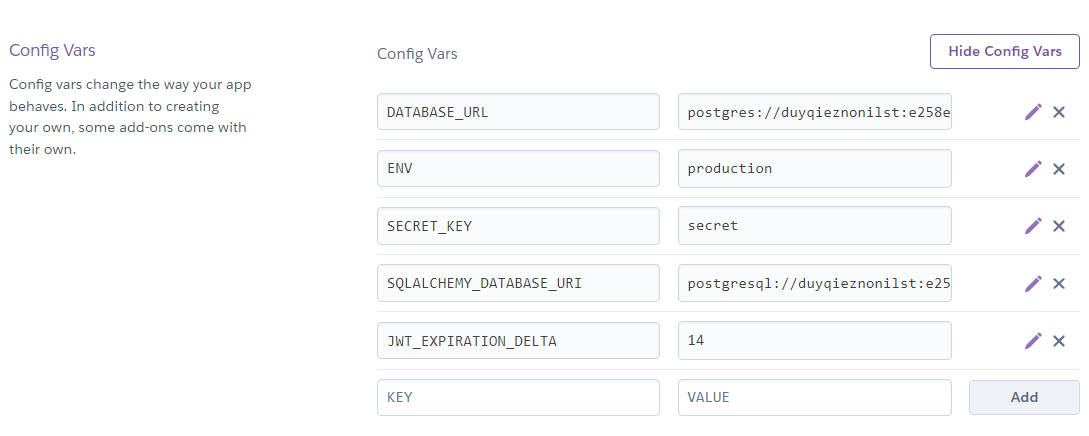
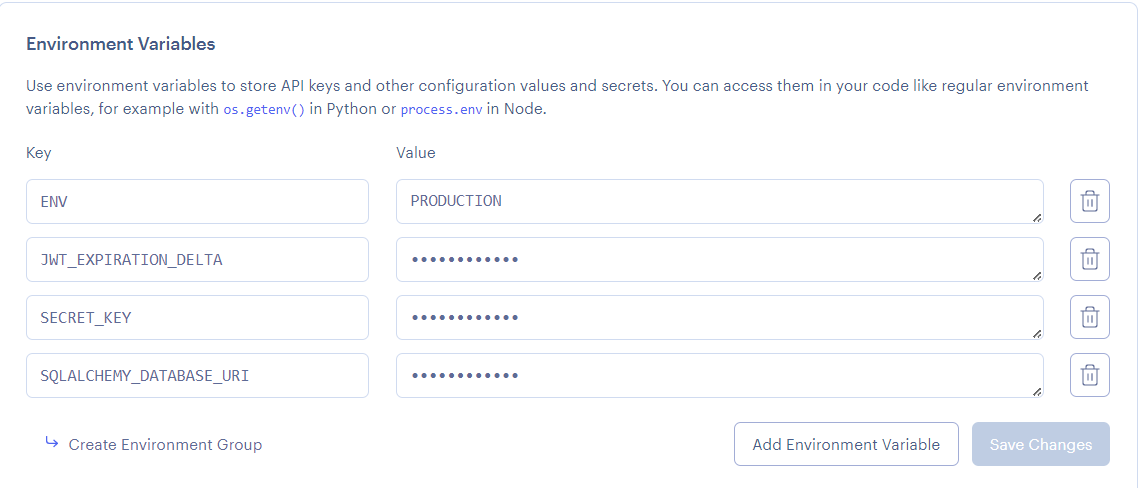
updating for render deployment

diff --git a/App/views/index.py b/App/views/index.py
@@ -1,7 +1,11 @@
-from flask import Blueprint, redirect, render_template, request, send_from_directory
+from flask import Blueprint, redirect, render_template, request, send_from_directory, jsonify
 
 index_views = Blueprint('index_views', __name__, template_folder='../templates')
 
 @index_views.route('/', methods=['GET'])
 def index_page():
     return render_template('index.html')
+
+@index_views.route('/', methods=['GET'])
+def health_check():
+    return jsonify({'status':'healthy'})

diff --git a/readme.md b/readme.md
@@ -1,5 +1,7 @@
 [![Open in Gitpod](https://gitpod.io/button/open-in-gitpod.svg)](https://gitpod.io/#https://github.com/uwidcit/flaskmvc)
-[![Deploy](https://www.herokucdn.com/deploy/button.svg)](https://heroku.com/deploy)
+<a href="https://render.com/deploy?repo=https://github.com/uwidcit/flaskmvc">
+  <img src="https://render.com/images/deploy-to-render-button.svg" alt="Deploy to Render">
+</a>
 
 ![Tests](https://github.com/uwidcit/flaskmvc/actions/workflows/dev.yml/badge.svg)
 
@@ -37,14 +39,9 @@ ENV = "DEVELOPMENT"
 ## In Production
 
 When deploying your application to production/staging you must pass
-in configuration information via environment variables. For heroku, you need to navigate to your application's setting page (url should look like https://dashboard.heroku.com/apps/[app-name]/settings) and scroll down to config vars.
-Then provide your configuration by defining the same values given in config.py 
+in configuration information via environment tab of your render project's dashboard.
 
-![heroku screenshot](images/fig1.png)
-
-When deploying to production the "ENV" variable should be set to "PRODUCTION". 
-
-**Note** heroku provides a default variable "DATABASE_URL" for heorku postgres. If you want the app to use this database you must copy the value to the variable "SQLALCHEMY_DATABASE_URL" and change the protocol to "postgresql://" for sqlalchemmy.
+![perms](./images/fig1.png)
 
 # Flask Commands
 
